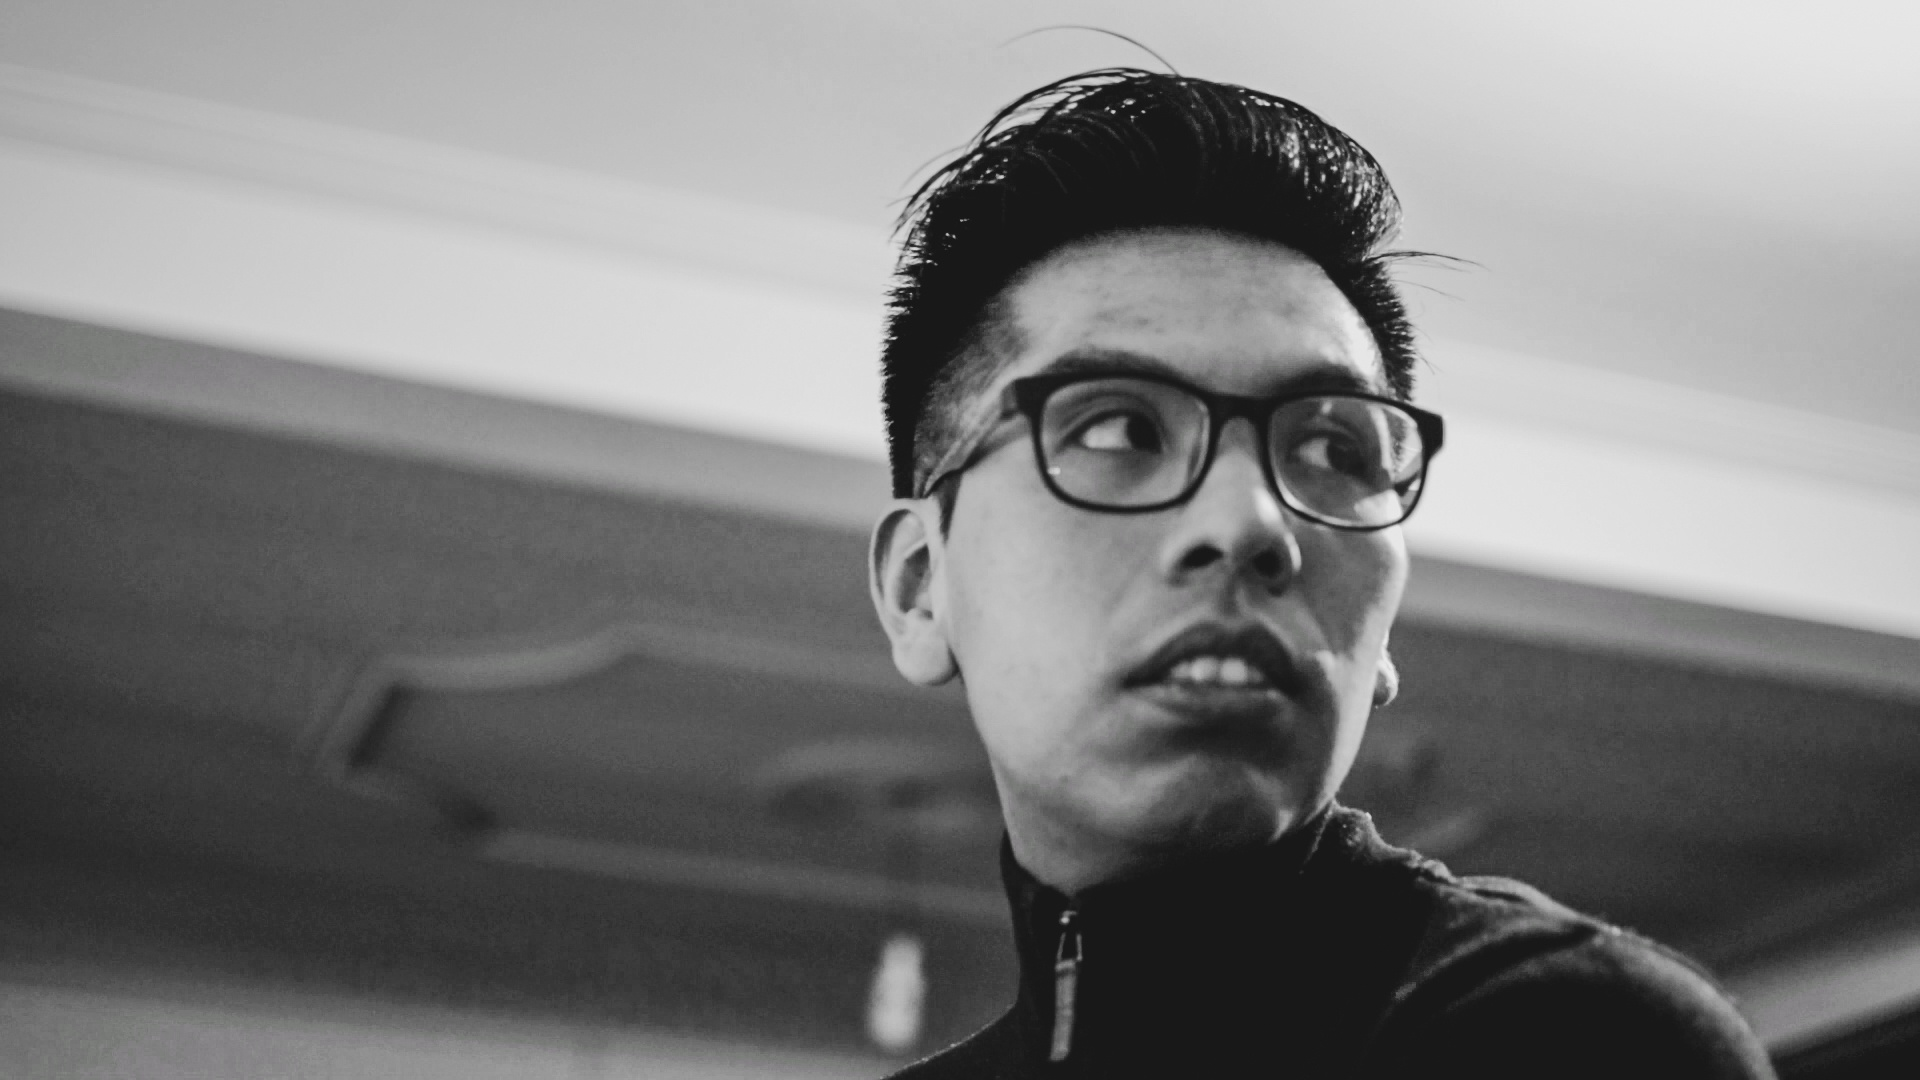
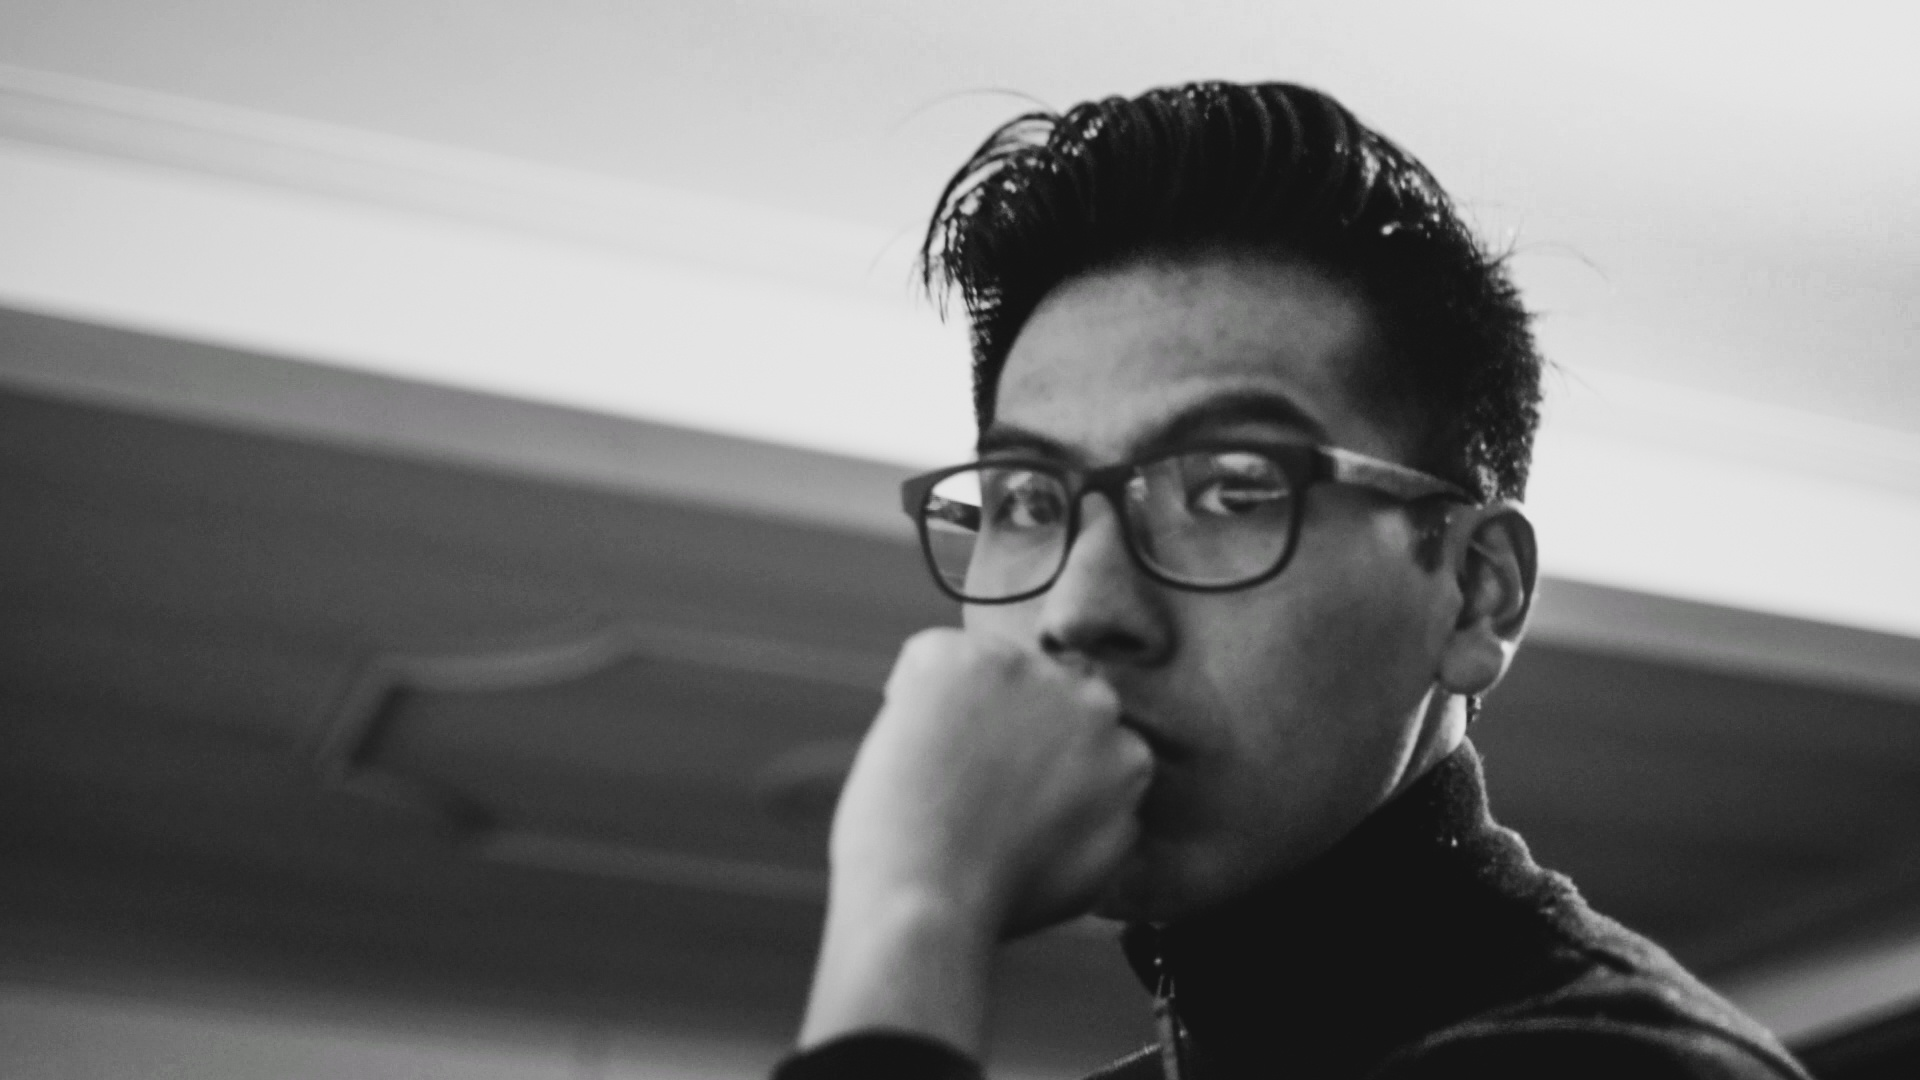
Adding second about.

diff --git a/about2.html b/about2.html
@@ -7,6 +7,15 @@
 	<link rel="stylesheet"
 		href="https://neuronthemes.com/proton_classic/wp-content/cache/min/1/252cd49b8812769f74ba522a80de6b6a.css"
 		data-minify="1">
+
+	<link href="https://fonts.googleapis.com/css?family=Abril+Fatface:400,400i,600,700,700i&amp;subset=latin-ext" rel="stylesheet">
+    <link href="https://fonts.googleapis.com/css?family=Nunito:400,400i,600,700,700i&amp;subset=latin-ext" rel="stylesheet">
+    <link href="/assets2/css/bootstrap.css" rel="stylesheet">
+    <link href="/assets2/css/fontawesome-all.css" rel="stylesheet">
+    <link href="/assets2/css/swiper.css" rel="stylesheet">
+	<link href="/assets2/css/magnific-popup.css" rel="stylesheet">
+	<link href="/assets2/css/styles.css" rel="stylesheet">
+
 	<link rel="canonical" href="https://neuronthemes.com/proton_classic/about-me/">
 	<meta property="og:locale" content="en_US">
 	<meta property="og:type" content="article">
@@ -15,77 +24,6 @@
 	<meta property="og:site_name" content="Proton">
 	<meta name="twitter:card" content="summary_large_image">
 	<meta name="twitter:title" content="About Me - Proton">
-	<link rel="dns-prefetch" href="//maps.googleapis.com">
-	<link rel="dns-prefetch" href="//fonts.googleapis.com">
-	<link rel="alternate" type="application/rss+xml" title="Proton » Feed"
-		href="https://neuronthemes.com/proton_classic/feed/">
-	<link rel="alternate" type="application/rss+xml" title="Proton » Comments Feed"
-		href="https://neuronthemes.com/proton_classic/comments/feed/">
-	<style type="text/css">
-		img.wp-smiley,
-		img.emoji {
-			display: inline !important;
-			border: none !important;
-			box-shadow: none !important;
-			height: 1em !important;
-			width: 1em !important;
-			margin: 0 .07em !important;
-			vertical-align: -0.1em !important;
-			background: none !important;
-			padding: 0 !important
-		}
-	</style>
-	<style id="rs-plugin-settings-inline-css" type="text/css"></style>
-	<link rel="stylesheet" id="woocommerce-smallscreen-css"
-		href="https://neuronthemes.com/proton_classic/wp-content/cache/busting/1/proton_classic/wp-content/plugins/woocommerce/assets/css/woocommerce-smallscreen-3.4.2.css"
-		type="text/css" media="only screen and (max-width: 768px)">
-	<style id="woocommerce-inline-inline-css" type="text/css">
-		.woocommerce form .form-row .required {
-			visibility: visible
-		}
-	</style>
-	<link rel="stylesheet" id="proton-fonts-css"
-		href="//fonts.googleapis.com/css?family=Roboto%3A300%2C400%2C400i%2C500%2C700&amp;ver=1.4" type="text/css"
-		media="all">
-	<script type="text/javascript"
-		src="https://neuronthemes.com/proton_classic/wp-content/cache/busting/1/proton_classic/wp-includes/js/jquery/jquery-1.12.4.js"></script>
-	<script type="text/javascript"
-		src="https://maps.googleapis.com/maps/api/js?key=AIzaSyAuaE4p3L0-Q6TXUDc4Xf9ttyCSK6779e4&amp;ver=1.4"></script>
-	<link rel="https://api.w.org/" href="https://neuronthemes.com/proton_classic/wp-json/">
-	<link rel="EditURI" type="application/rsd+xml" title="RSD"
-		href="https://neuronthemes.com/proton_classic/xmlrpc.php?rsd">
-	<link rel="wlwmanifest" type="application/wlwmanifest+xml"
-		href="https://neuronthemes.com/proton_classic/wp-includes/wlwmanifest.xml">
-	<meta name="generator" content="WordPress 4.9.8">
-	<meta name="generator" content="WooCommerce 3.4.2">
-	<link rel="shortlink" href="https://neuronthemes.com/proton_classic/?p=34">
-	<link rel="alternate" type="application/json+oembed"
-		href="https://neuronthemes.com/proton_classic/wp-json/oembed/1.0/embed?url=https%3A%2F%2Fneuronthemes.com%2Fproton_classic%2Fabout-me%2F">
-	<link rel="alternate" type="text/xml+oembed"
-		href="https://neuronthemes.com/proton_classic/wp-json/oembed/1.0/embed?url=https%3A%2F%2Fneuronthemes.com%2Fproton_classic%2Fabout-me%2F&amp;format=xml">
-	<link rel="shortcut icon" href="https://neuronthemes.com/proton_classic/wp-content/uploads/2017/11/favicon.png">
-	<noscript>
-		<style>
-			.woocommerce-product-gallery {
-				opacity: 1 !important
-			}
-		</style>
-	</noscript>
-	<meta name="generator" content="Powered by WPBakery Page Builder - drag and drop page builder for WordPress.">
-	<!--[if lte IE 9]><link rel="stylesheet" type="text/css" href="https://neuronthemes.com/proton_classic/wp-content/plugins/js-composer/assets/css/vc_lte_ie9.min.css" media="screen"><![endif]-->
-	<meta name="generator"
-		content="Powered by Slider Revolution 5.4.6.3.1 - responsive, Mobile-Friendly Slider Plugin for WordPress with comfortable drag and drop interface.">
-	<noscript>
-		<style type="text/css">
-			.wpb_animate_when_almost_visible {
-				opacity: 1
-			}
-		</style>
-	</noscript>
-	<script type="text/javascript" charset="UTF-8"
-		src="https://maps.googleapis.com/maps-api-v3/api/js/42/2/intl/en_gb/common.js"></script>
-	<script type="text/javascript" charset="UTF-8"
-		src="https://maps.googleapis.com/maps-api-v3/api/js/42/2/intl/en_gb/util.js"></script>
 </head>
 
 <body class="page-template-default page page-id-34 woocommerce-js wpb-js-composer js-comp-ver-5.4.4 vc_responsive">
@@ -463,7 +401,7 @@
 										<div class="page-title">
 											<div class="row">
 												<div class="col-md-12">
-													<div class="heading-title"> <b>Hi. I Am John Doe.</b>
+													<div class="heading-title"> <b>Hi. I Am John Choque.</b>
 														<p>Lorem ipsum dolor sit amet, consectetur adipisicing.<br> Iste
 															ratione molestias magni risus.</p>
 													</div>
@@ -486,7 +424,6 @@
 														width="1280" height="750"
 														src="/assets2/images/about2.jpeg"
 														class="vc_single_image-img attachment-full" alt=""
-														srcset="https://neuronthemes.com/proton_classic/wp-content/uploads/2017/11/about.jpg 1280w, https://neuronthemes.com/proton_classic/wp-content/uploads/2017/11/about-300x176.jpg 300w, https://neuronthemes.com/proton_classic/wp-content/uploads/2017/11/about-768x450.jpg 768w, https://neuronthemes.com/proton_classic/wp-content/uploads/2017/11/about-1024x600.jpg 1024w"
 														sizes="(max-width: 1280px) 100vw, 1280px"></div>
 											</figure>
 										</div>
